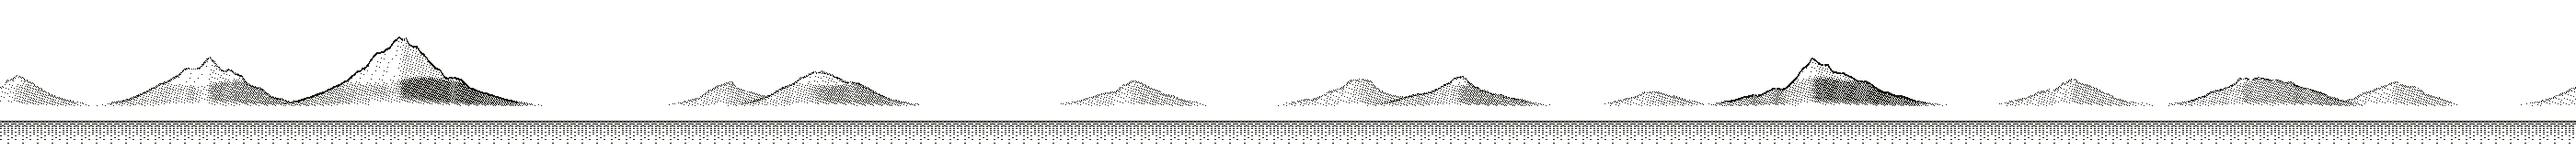
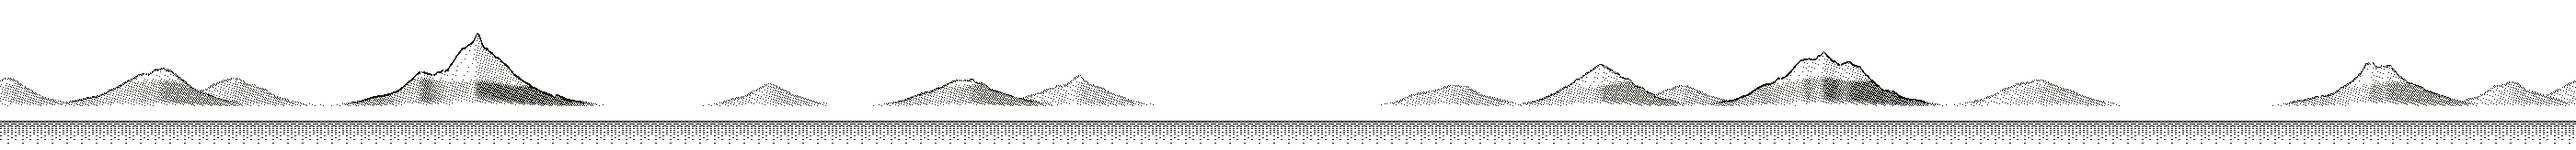
site: rebuild

diff --git a/assets/A.CEJogXC4.css b/assets/A.CEJogXC4.css
@@ -1,0 +1,1 @@
+.astro-route-announcer{clip:rect(0 0 0 0);clip-path:inset(50%);white-space:nowrap;width:1px;height:1px;position:absolute;top:0;left:0;overflow:hidden}@font-face{font-family:Fira Code;src:url(/fonts/fira-regular.woff2)format("woff2");font-weight:400;font-style:normal;font-display:swap}@font-face{font-family:Fira Code;src:url(/fonts/fira-bold.woff2)format("woff2");font-weight:700;font-style:normal;font-display:swap}:root{--dim:#6a6755;--rule:#bfbaa3;--link:#17548c;--ext:#a02f26;--mono:"Fira Code", ui-monospace, SFMono-Regular, "SF Mono", Menlo, Consolas, "Liberation Mono", "DejaVu Sans Mono", monospace}*{box-sizing:border-box}html{-webkit-text-size-adjust:100%}body{background:var(--paper);color:var(--ink);font-family:var(--mono);font-variant-ligatures:none;margin:0;font-size:14.7px;line-height:1.62}.page{min-height:100vh;padding:0 0 3.5rem}.col{max-width:47rem;margin:0 auto;padding:0 1.5rem}.scene+header{padding-top:1.6rem}header{padding:2.4rem 0 1.5rem}a{color:var(--link);border-bottom:1px solid var(--rule);text-decoration:none}a:hover{border-bottom-color:currentColor}a.ext{color:var(--ext)}a:focus-visible{outline:2px solid var(--ink);outline-offset:2px}b{font-weight:700}.arrow{vertical-align:.15em;color:var(--ext);margin-left:.15em;font-size:.8em}.mark{width:104px;height:auto;image-rendering:pixelated;margin-bottom:1.15rem;display:block}h1{letter-spacing:-.01em;margin:0 0 .2rem;font-size:1.35rem;line-height:1.2}.name-sub{color:var(--dim);margin:0}.back{margin:0;font-size:.86rem}.back a{border:0}.back a:hover{border-bottom:1px solid}.index{align-items:flex-start;gap:2.5rem;padding:2.6rem 0 0;display:flex}.identity{flex:0 0 16rem}.dir{flex:auto;padding-top:.15rem}.dir .e{margin-bottom:1.3rem}.dir .e:last-child{margin-bottom:0}.dir .t{font-weight:700}.dir .t a{color:var(--ink);border-bottom:1px solid var(--rule)}.dir .t a:hover{border-bottom-color:currentColor}.dir .s{color:var(--dim);margin:0}h2{color:var(--ink);margin:0 0 1.3rem;font-size:1.05rem;font-weight:700}h2:before{content:"# ";color:var(--dim)}.intro{align-items:flex-start;gap:2rem;display:flex}.intro .prose{flex:auto;min-width:0}.portrait{flex:0 0 168px;width:168px;height:auto;display:block}.portrait.dithered{image-rendering:pixelated}.prose p{max-width:40rem;margin:0 0 .9rem}.prose p:last-child{margin-bottom:0}.item{margin-bottom:1.3rem}.item:last-child{margin-bottom:0}.row{align-items:baseline;display:flex}.row .t{font-weight:700}.row .lead{border-bottom:1px dotted var(--rule);flex:auto;min-width:1.5rem;margin:0 .55em;transform:translateY(-.3em)}.row .m{color:var(--dim);white-space:nowrap;flex:none;font-size:.82rem}.d{color:var(--dim);max-width:42rem;margin:.1rem 0 0}.stack-row{flex-wrap:wrap;gap:.35rem .4rem;margin:0 0 .75rem;display:flex}.stack-row:last-child{margin-bottom:0}.stack-label{color:var(--dim);flex:0 0 8rem;padding-top:.15rem;font-size:.82rem}.chips{flex-wrap:wrap;flex:16rem;gap:.3rem .35rem;display:flex}.chip{border:1px solid var(--rule);background:#ffffff73;padding:.02rem .4rem;font-size:.82rem}.year{margin-top:1.9rem}.year:first-of-type{margin-top:0}.year-label{margin:0 0 .8rem}.year-label:before{content:"## ";color:var(--dim)}.year-items{padding-left:1.5rem}.sr-only{clip-path:inset(50%);white-space:nowrap;border:0;width:1px;height:1px;margin:-1px;padding:0;position:absolute;overflow:hidden}.cmd{color:var(--dim);margin:1.1rem 0 .9rem}.cmd .t-p{color:var(--rule)}.tree{margin:0;font-family:inherit;font-size:.88rem;line-height:1.25;overflow-x:auto}.tree .t-p{color:var(--dim)}.tree .t-stem{color:var(--rule)}.tree .t-dir{color:var(--link);font-weight:700}.tree .t-sum{color:var(--dim);font-size:.82rem}.rows{margin:1.7rem 0 0}.rows>div{gap:.4rem;margin-bottom:.3rem;display:flex}.rows dt{color:var(--dim);flex:0 0 8rem;font-size:.86rem}.rows dd{overflow-wrap:anywhere;flex:auto;margin:0}@media (width<=40rem){body{font-size:14px}.index{padding-top:1.8rem;display:block}.identity{margin-bottom:2.2rem}.row{display:block}.row .lead{display:none}.row .m{white-space:normal;display:block}.stack-label,.rows dt{flex:0 0 100%}.intro{display:block}.year-items{padding-left:.8rem}.portrait{margin:0 0 1.2rem}}@media print{.page{background:#fff}.scene{display:none}}.toc{margin:0 0 2.2rem;font-size:.78rem;line-height:1.5}.toc-head{color:var(--dim);letter-spacing:.04em;margin:0 0 .5rem}.to-top{font:inherit;letter-spacing:inherit;color:var(--dim);cursor:pointer;background:0 0;border:0;padding:0;display:none}.to-top:hover{color:var(--ink)}.toc.away .here{display:none}.toc.away .to-top{display:inline}.toc ol{border-left:1px solid var(--rule);margin:0;padding:0;list-style:none}.toc li{margin:0 0 .3rem}.toc ol ol{margin:.25rem 0 .5rem .9rem}.toc ol ol li{margin:0 0 .2rem}.toc a{color:#94907c;overflow-wrap:anywhere;border:0;border-left:2px solid #0000;margin-left:-1px;padding-left:.6rem;display:block}.toc a:hover{color:var(--ink);border-bottom:0}.toc a.on{color:var(--ink);border-left-color:var(--ink);font-weight:700}.rail{text-align:center;margin:0 0 2.5rem}.rail img{max-width:100%;height:auto;image-rendering:pixelated;display:inline-block}@media (width>=86rem){.rail{text-align:left;width:13rem;margin:0;padding-left:1.6rem;position:absolute;top:.2rem;left:100%}}@media (width>=76rem){.col.has-toc{position:relative}.toc{width:13rem;margin:0;padding-right:1.6rem;position:absolute;top:.2rem;bottom:0;right:100%}.toc-inner{position:sticky;top:2rem}.toc-scroll{overscroll-behavior:contain;scrollbar-width:thin;scrollbar-color:var(--rule) transparent;max-height:50vh;overflow-y:auto}}@media (width<=75.99rem){.toc-scroll{overscroll-behavior:contain;scrollbar-width:thin;scrollbar-color:var(--rule) transparent;max-height:45vh;overflow-y:auto}}.prose.long{max-width:40rem}.prose.long>:first-child{margin-top:0}h3,h4,h5,h6{color:var(--ink);margin:2rem 0 .7rem;scroll-margin-top:1.5rem;font-weight:700}h3{font-size:.95rem}h4{font-size:.86rem}h5,h6{font-size:.8rem}h4,h5,h6{margin-top:1.5rem}.anchor{color:inherit;border:0}.anchor .hash{color:var(--dim)}.anchor:hover{border:0}.anchor:hover .hash{color:var(--ext)}.prose.long a.ext:after{content:"↗";vertical-align:.15em;color:var(--ext);margin-left:.15em;font-size:.8em}.prose.long img{max-width:100%;height:auto;margin:0 0 1rem;display:block}.prose.long figure{margin:0 0 1rem}.prose.long ul,.prose.long ol{margin:0 0 .9rem;padding-left:1.2rem}.prose.long li{margin:0 0 .3rem}.prose.long code{background:color-mix(in srgb, var(--ink) 7%, transparent);padding:.05em .3em;font-size:.92em}.prose.long pre{background:color-mix(in srgb, var(--ink) 5%, transparent);margin:0 0 1rem;padding:.8rem 1rem;overflow-x:auto}.prose.long pre code{background:0 0;padding:0}.prose.long blockquote{border-left:2px solid var(--rule);color:var(--dim);margin:0 0 1rem;padding-left:1rem}.empty{text-align:center;padding:5rem 1.5rem 4.5rem}.marquee{max-width:100%;line-height:0;display:inline-block;position:relative}.empty img{max-width:100%;height:auto;image-rendering:pixelated;display:block}.empty .blink{animation:2.85s infinite uc-blink;position:absolute;inset:0}@keyframes uc-blink{0%,70.18%{opacity:1}70.19%,to{opacity:0}}@media (prefers-reduced-motion:reduce){.empty .blink{animation:none}}.empty p{color:var(--dim);margin:1.4rem 0 0}:root{--paper:#f7f4ea;--blue:#e7eef8;--butter:#f8f1d0;--sage:#e6eee2;--ink:#17160f}.g-paper{background:var(--paper);--ground:var(--paper)}.g-blue{background:var(--blue);--ground:var(--blue)}.g-butter{background:var(--butter);--ground:var(--butter)}.g-sage{background:var(--sage);--ground:var(--sage)}.scene{height:164px;image-rendering:pixelated;position:relative}.occlude{background:var(--ground);position:absolute;inset:0;mask:url(/img/silhouette.png) 0 0 repeat-x}.land{background:url(/img/land.png) 0 0 repeat-x;position:absolute;inset:0}.bh{width:160px;height:92px;image-rendering:pixelated;background:url(/img/blackhole.png) 0 0 no-repeat;animation:9s steps(36,end) infinite orbit;position:absolute;top:6px;left:280px}@keyframes orbit{0%{background-position-y:0}to{background-position-y:-3312px}}@media (prefers-reduced-motion:reduce){.bh{animation:none}}.clouds{height:60px;image-rendering:pixelated;background-image:url(/img/clouds.png);background-repeat:repeat-x;animation:440s linear infinite drift,34s steps(14,end) infinite alternate morph;position:absolute;top:0;left:0;right:0}@keyframes drift{0%{background-position-x:0}to{background-position-x:-2800px}}@keyframes morph{0%{background-position-y:0}to{background-position-y:-840px}}@media (prefers-reduced-motion:reduce){.clouds{animation:none}}@keyframes astroFadeInOut{0%{opacity:1}to{opacity:0}}@keyframes astroFadeIn{0%{opacity:0;mix-blend-mode:plus-lighter}to{opacity:1;mix-blend-mode:plus-lighter}}@keyframes astroFadeOut{0%{opacity:1;mix-blend-mode:plus-lighter}to{opacity:0;mix-blend-mode:plus-lighter}}@keyframes astroSlideFromRight{0%{transform:translate(100%)}}@keyframes astroSlideFromLeft{0%{transform:translate(-100%)}}@keyframes astroSlideToRight{to{transform:translate(100%)}}@keyframes astroSlideToLeft{to{transform:translate(-100%)}}@media (prefers-reduced-motion){::view-transition-group(*),::view-transition-old(*),::view-transition-new(*),[data-astro-transition-scope]{animation:none!important}}

diff --git a/skills.html b/skills.html
@@ -1,1 +1,36 @@
[2 lines of base64/hex data omitted]
+<span class="t-stem" aria-hidden="true">├── </span><span class="t-dir">languages/</span>
+<span class="t-stem" aria-hidden="true">│   ├── </span><span class="t-file">Python</span>
+<span class="t-stem" aria-hidden="true">│   ├── </span><span class="t-file">TypeScript</span>
+<span class="t-stem" aria-hidden="true">│   └── </span><span class="t-file">JavaScript</span>
+<span class="t-stem" aria-hidden="true">├── </span><span class="t-dir">ai/</span>
+<span class="t-stem" aria-hidden="true">│   ├── </span><span class="t-file">&quot;Multi-agent architecture&quot;</span>
+<span class="t-stem" aria-hidden="true">│   ├── </span><span class="t-file">&quot;RAG + hybrid retrieval&quot;</span>
+<span class="t-stem" aria-hidden="true">│   ├── </span><span class="t-file">MCP</span>
+<span class="t-stem" aria-hidden="true">│   ├── </span><span class="t-file">LangGraph</span>
+<span class="t-stem" aria-hidden="true">│   ├── </span><span class="t-file">&quot;Multi-modal vision&quot;</span>
+<span class="t-stem" aria-hidden="true">│   ├── </span><span class="t-file">Pipecat</span>
+<span class="t-stem" aria-hidden="true">│   ├── </span><span class="t-file">&quot;prompt injection&quot;</span>
+<span class="t-stem" aria-hidden="true">│   ├── </span><span class="t-file">&quot;Claude API&quot;</span>
+<span class="t-stem" aria-hidden="true">│   └── </span><span class="t-dir">voice/</span>
+<span class="t-stem" aria-hidden="true">│       ├── </span><span class="t-file">WebRTC</span>
+<span class="t-stem" aria-hidden="true">│       ├── </span><span class="t-file">WebSocket</span>
+<span class="t-stem" aria-hidden="true">│       ├── </span><span class="t-file">&quot;Streaming STT + TTS&quot;</span>
+<span class="t-stem" aria-hidden="true">│       ├── </span><span class="t-file">LiveKit</span>
+<span class="t-stem" aria-hidden="true">│       ├── </span><span class="t-file">Twilio</span>
+<span class="t-stem" aria-hidden="true">│       ├── </span><span class="t-file">&quot;Silero VAD&quot;</span>
+<span class="t-stem" aria-hidden="true">│       └── </span><span class="t-file">barge-in</span>
+<span class="t-stem" aria-hidden="true">├── </span><span class="t-dir">web/</span>
+<span class="t-stem" aria-hidden="true">│   ├── </span><span class="t-file">FastAPI</span>
+<span class="t-stem" aria-hidden="true">│   ├── </span><span class="t-file">PostgreSQL</span>
+<span class="t-stem" aria-hidden="true">│   ├── </span><span class="t-file">Next.js</span>
+<span class="t-stem" aria-hidden="true">│   ├── </span><span class="t-file">React</span>
+<span class="t-stem" aria-hidden="true">│   ├── </span><span class="t-file">&quot;Server-Sent Events&quot;</span>
+<span class="t-stem" aria-hidden="true">│   └── </span><span class="t-file">Flask</span>
+<span class="t-stem" aria-hidden="true">└── </span><span class="t-dir">infra/</span>
+<span class="t-stem" aria-hidden="true">    ├── </span><span class="t-file">Docker</span>
+<span class="t-stem" aria-hidden="true">    ├── </span><span class="t-file">&quot;GitHub Actions&quot;</span>
+<span class="t-stem" aria-hidden="true">    ├── </span><span class="t-file">&quot;self-hosted Linux&quot;</span>
+<span class="t-stem" aria-hidden="true">    └── </span><span class="t-file">&quot;Cloudflare Tunnel&quot;</span>
+
+<span class="t-sum">6 directories, 28 files</span></pre></div></div></body></html>

diff --git a/projects/20260818-to-be-yabby.html b/projects/20260818-to-be-yabby.html
@@ -1,4 +1,4 @@
[2 lines of base64/hex data omitted]
 <p>After finishing my studies at Unimelb in May 2026, I was invited by one of my
 friends into a project, writing web apps for a Chinese restaurant,
 <a href="https://www.google.com/maps/place/To+Be+Yabby/@-37.9135204,145.0116392,2480m/data=!3m1!1e3!4m6!3m5!1s0x6ad6693ac8e6f103:0xd08c700b3904172d!8m2!3d-37.913473!4d145.0167687!16s%2Fg%2F11c6_vqyf2" target="_blank" rel="noopener noreferrer" class="ext">To Be Yabby</a>,

diff --git a/index.html b/index.html
@@ -1,1 +1,1 @@
[2 lines of base64/hex data omitted]

diff --git a/projects.html b/projects.html
@@ -1,1 +1,1 @@
[2 lines of base64/hex data omitted]

diff --git a/about.html b/about.html
@@ -1,1 +1,1 @@
[2 lines of base64/hex data omitted]

diff --git a/projects/20260818-telescope-rag.html b/projects/20260818-telescope-rag.html
@@ -1,1 +1,1 @@
[2 lines of base64/hex data omitted]

diff --git a/projects/20260818-styleai.html b/projects/20260818-styleai.html
@@ -1,1 +1,1 @@
[2 lines of base64/hex data omitted]

diff --git a/error.html b/error.html
@@ -1,1 +1,1 @@
[2 lines of base64/hex data omitted]

diff --git a/404.html b/404.html
@@ -1,1 +1,1 @@
[2 lines of base64/hex data omitted]
